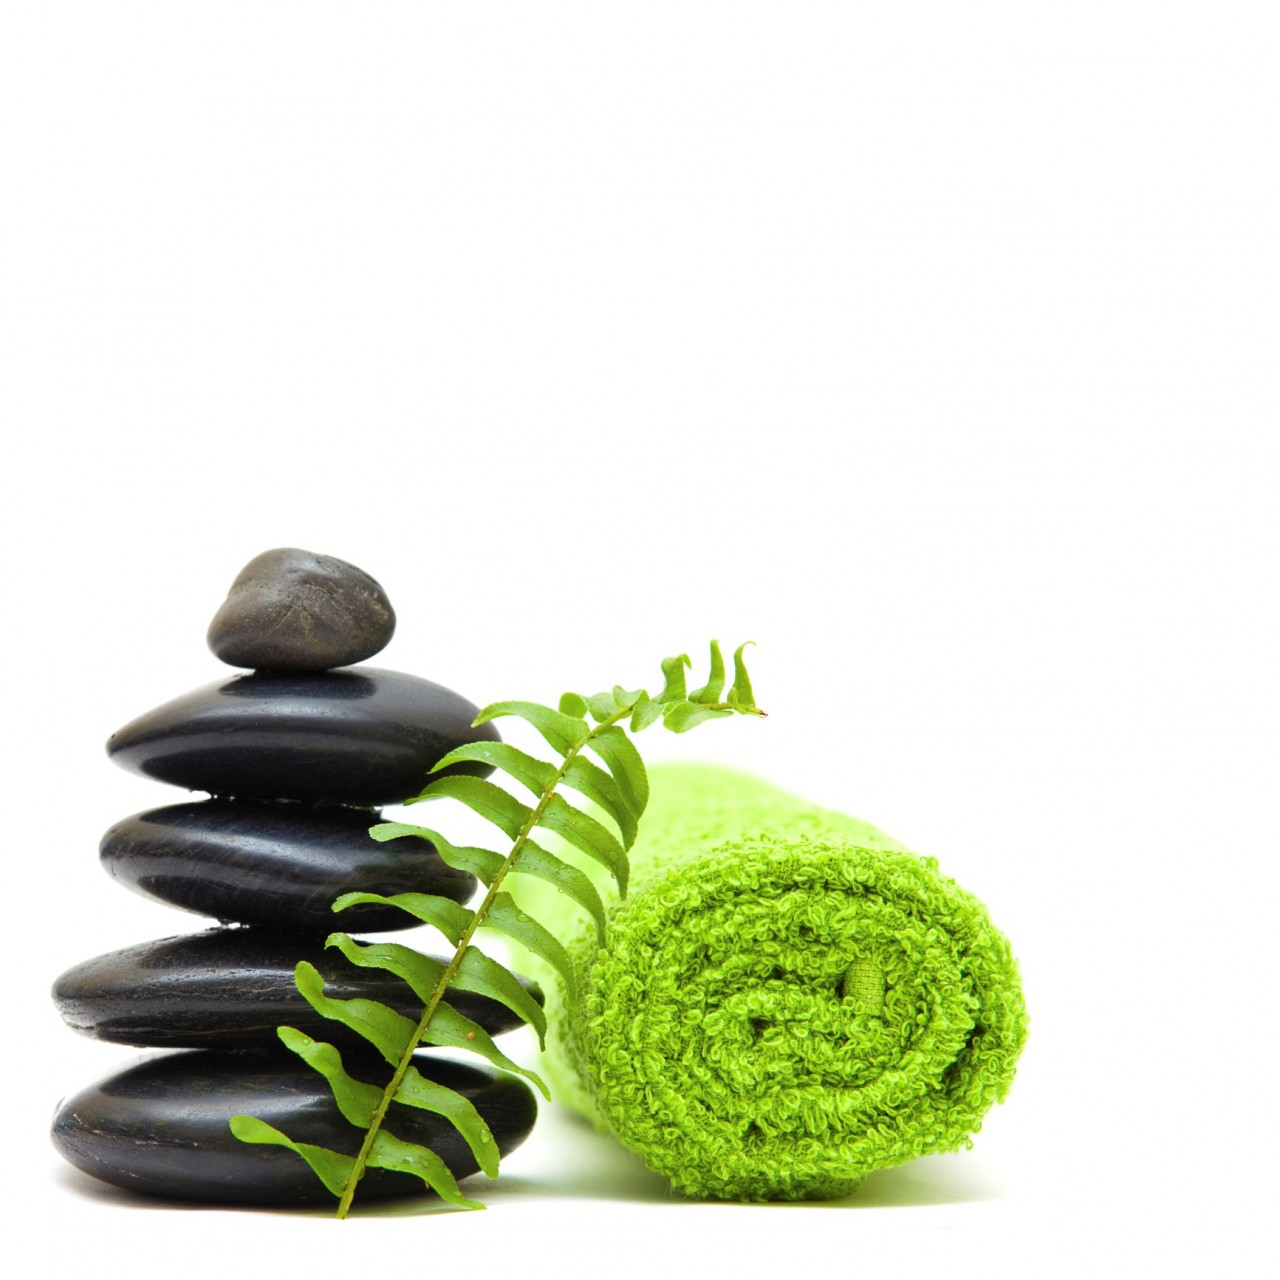
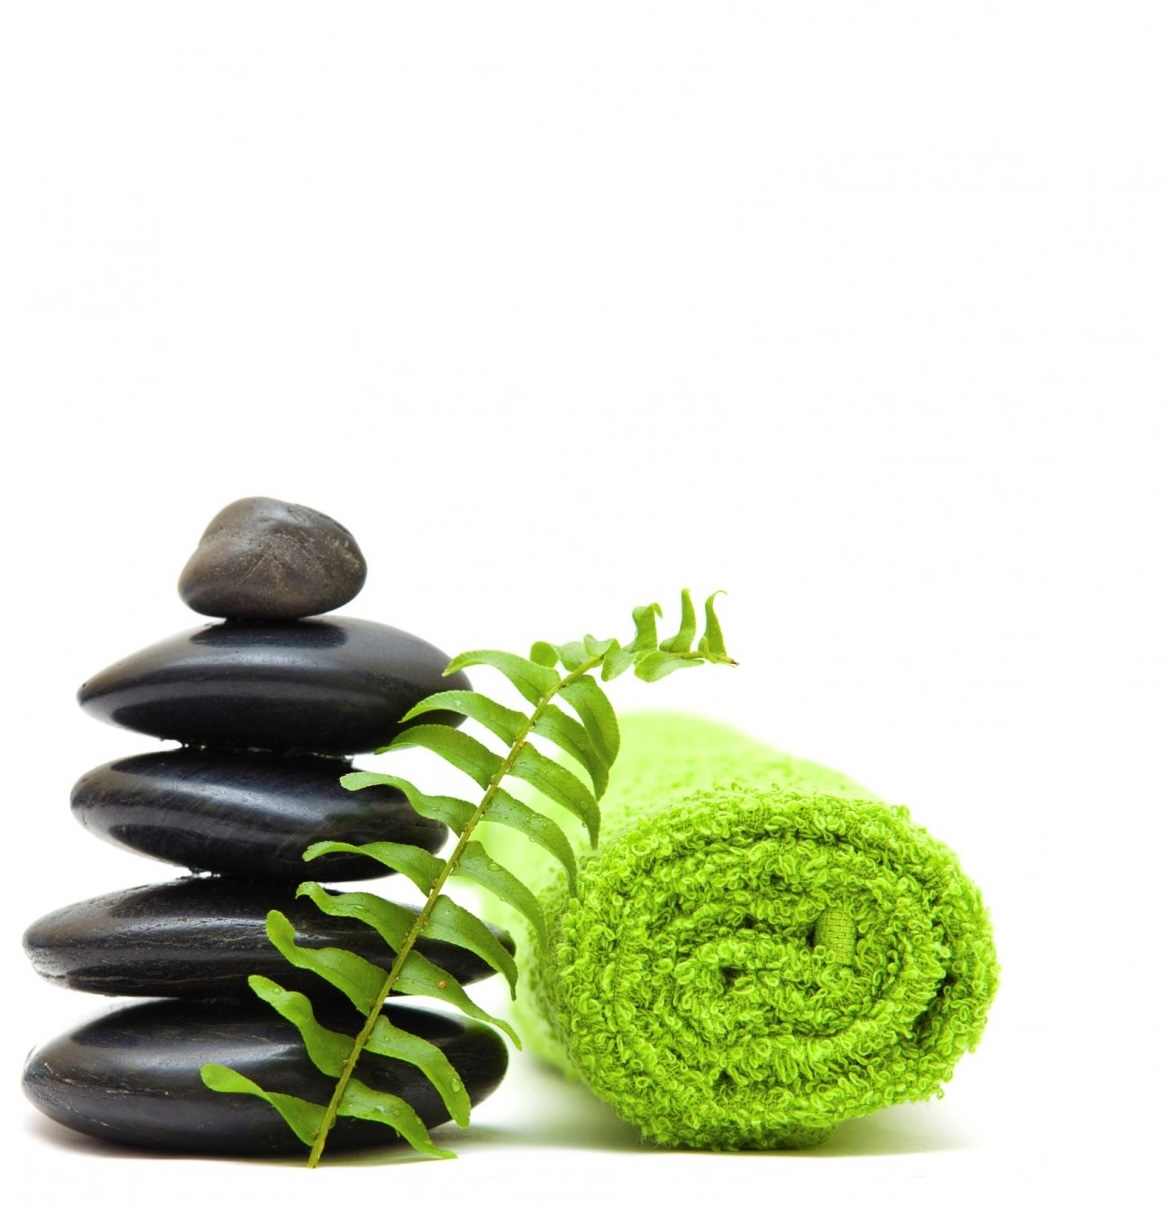
Update About Us image configuration for reception photo and spa visuals

Changed region(s): [[0.0, 0.3985, 0.8645, 0.9809]]

diff --git a/index.html b/index.html
@@ -362,7 +362,7 @@
         <!-- Left: Authentic Spa Photography with Reliable Local Image -->
         <div class="lg:col-span-5">
           <div class="img-editorial-frame aspect-[4/5] border border-[#BAE0FD] shadow-lg">
-            <img src="assets/images/massaji-zen-stones.jpg" alt="Botanical Spa Healing Massaji Bali" class="w-full h-full object-cover" onerror="this.onerror=null; this.src='assets/images/menu 2016-23s.jpg';">
+            <img src="assets/images/massaji-reception.jpg" alt="Massaji Spa Bali Sanctuary & Reception" class="w-full h-full object-cover" onerror="if (!this.triedPng) { this.triedPng = true; this.src = 'assets/images/massaji-reception.png'; } else if (!this.triedRaw) { this.triedRaw = true; this.src = 'assets/images/18BB6F9B-4ACE-49DF-9AE1-610D3B65BA60.png'; } else if (!this.triedAbout) { this.triedAbout = true; this.src = 'assets/images/massaji-about.jpg'; } else { this.onerror = null; this.src = 'assets/images/gambar2.jpg'; }">
           </div>
         </div>
 

diff --git a/preview.html b/preview.html
@@ -362,7 +362,7 @@
         <!-- Left: Authentic Spa Photography with Reliable Local Image -->
         <div class="lg:col-span-5">
           <div class="img-editorial-frame aspect-[4/5] border border-[#BAE0FD] shadow-lg">
-            <img src="assets/images/massaji-zen-stones.jpg" alt="Botanical Spa Healing Massaji Bali" class="w-full h-full object-cover" onerror="this.onerror=null; this.src='assets/images/menu 2016-23s.jpg';">
+            <img src="assets/images/massaji-reception.jpg" alt="Massaji Spa Bali Sanctuary & Reception" class="w-full h-full object-cover" onerror="if (!this.triedPng) { this.triedPng = true; this.src = 'assets/images/massaji-reception.png'; } else if (!this.triedRaw) { this.triedRaw = true; this.src = 'assets/images/18BB6F9B-4ACE-49DF-9AE1-610D3B65BA60.png'; } else if (!this.triedAbout) { this.triedAbout = true; this.src = 'assets/images/massaji-about.jpg'; } else { this.onerror = null; this.src = 'assets/images/gambar2.jpg'; }">
           </div>
         </div>
 

diff --git a/index.php b/index.php
@@ -399,7 +399,7 @@ $wa_url = "https://wa.me/" . $clean_wa . "?text=" . rawurlencode("Hello " . $set
         <!-- Left: Authentic Spa Photography with Reliable Local Image -->
         <div class="lg:col-span-5">
           <div class="img-editorial-frame aspect-[4/5] border border-[#BAE0FD] shadow-lg">
-            <img src="assets/images/massaji-zen-stones.jpg" alt="Botanical Spa Healing Massaji Bali" class="w-full h-full object-cover" onerror="this.onerror=null; this.src='assets/images/menu 2016-23s.jpg';">
+            <img src="assets/images/massaji-reception.jpg" alt="Massaji Spa Bali Sanctuary & Reception" class="w-full h-full object-cover" onerror="if (!this.triedPng) { this.triedPng = true; this.src = 'assets/images/massaji-reception.png'; } else if (!this.triedRaw) { this.triedRaw = true; this.src = 'assets/images/18BB6F9B-4ACE-49DF-9AE1-610D3B65BA60.png'; } else if (!this.triedAbout) { this.triedAbout = true; this.src = 'assets/images/massaji-about.jpg'; } else { this.onerror = null; this.src = 'assets/images/gambar2.jpg'; }">
           </div>
         </div>
 
